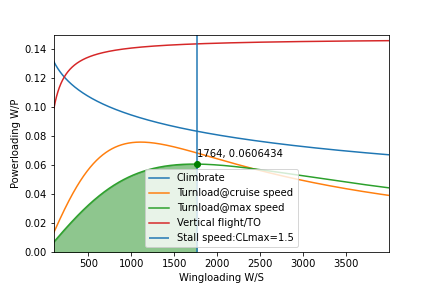
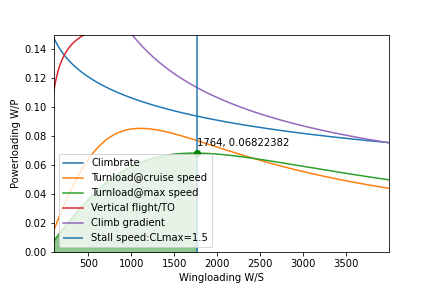
Preliminary sizing

diff --git a/scripts/Preliminary_sizing/wing_power_loading.py b/scripts/Preliminary_sizing/wing_power_loading.py
@@ -69,6 +69,10 @@ def plot_wing_power_loading_graphs(eff, StotS, diskloading, no_engines,name,WS_r
     plt.ylim(ylim)
     output_directory = str(list(pl.Path(__file__).parents)[2])+'\\output\\wing_power_loading_diagrams\\'
     plt.savefig(output_directory+str(name)+'.png')
+    print(name)
+    print("WS = ",str(STALLSPEED))
+    print("WP = ",str(round(lowest_area_y[-1],8)))
+    print("WP_noverticalflight = ",str(round(lowest_area_y_novf[-1],8)))
     #print(os.path.dirname(os.getcwd()))
     
 

diff --git a/Modules/preliminary_sizing/__init__.py b/Modules/preliminary_sizing/__init__.py
@@ -7,4 +7,4 @@ sys.path.append(str(list(pl.Path(__file__).parents)[2]))
 from input.GeneralConstants import *
 from .powerloading import *
 from .wingloading import *
-from .massestimation import *
+#from .massestimation import *

diff --git a/Modules/preliminary_sizing/powerloading.py b/Modules/preliminary_sizing/powerloading.py
@@ -26,3 +26,4 @@ def powerloading_climbgradient(e,A,CD0,WS,rho,eff,G):
     CL = np.sqrt(np.pi*e*A*CD0)
     CD = 2*CD0
     WP = (np.sqrt(WS*2/(rho*CL))*(G+CD/CL))**(-1) * eff
+    return WP
